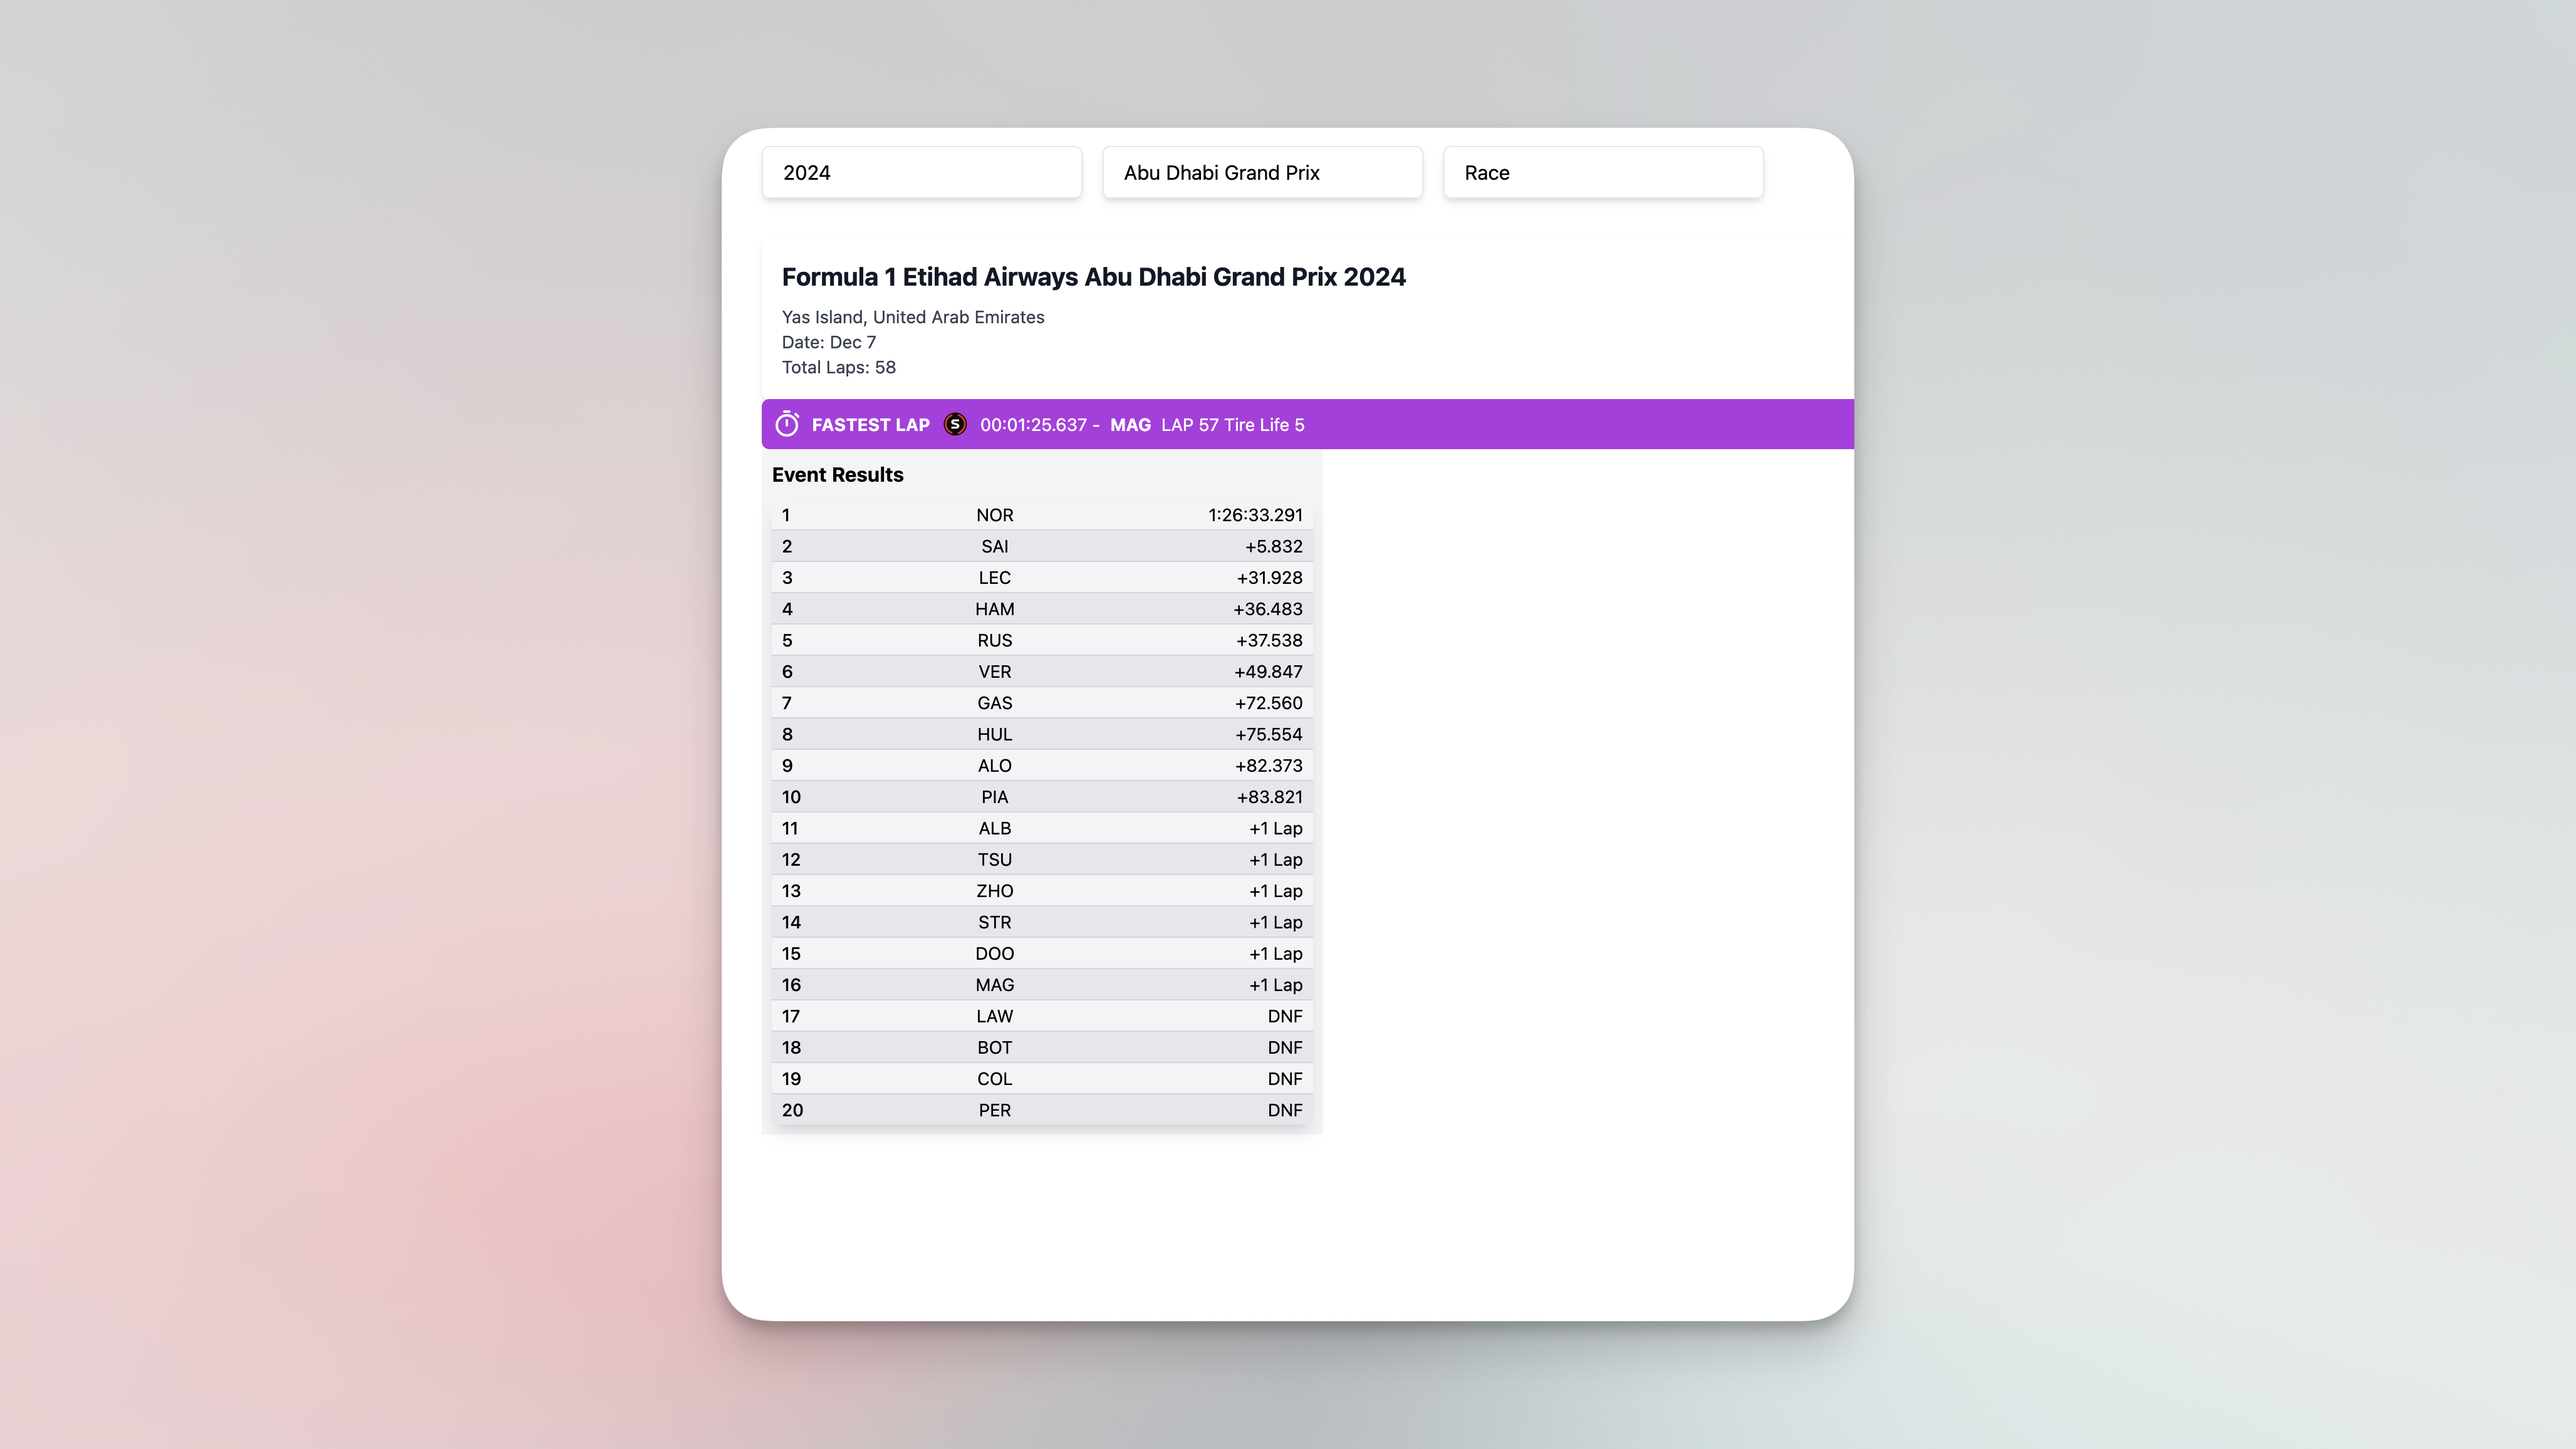
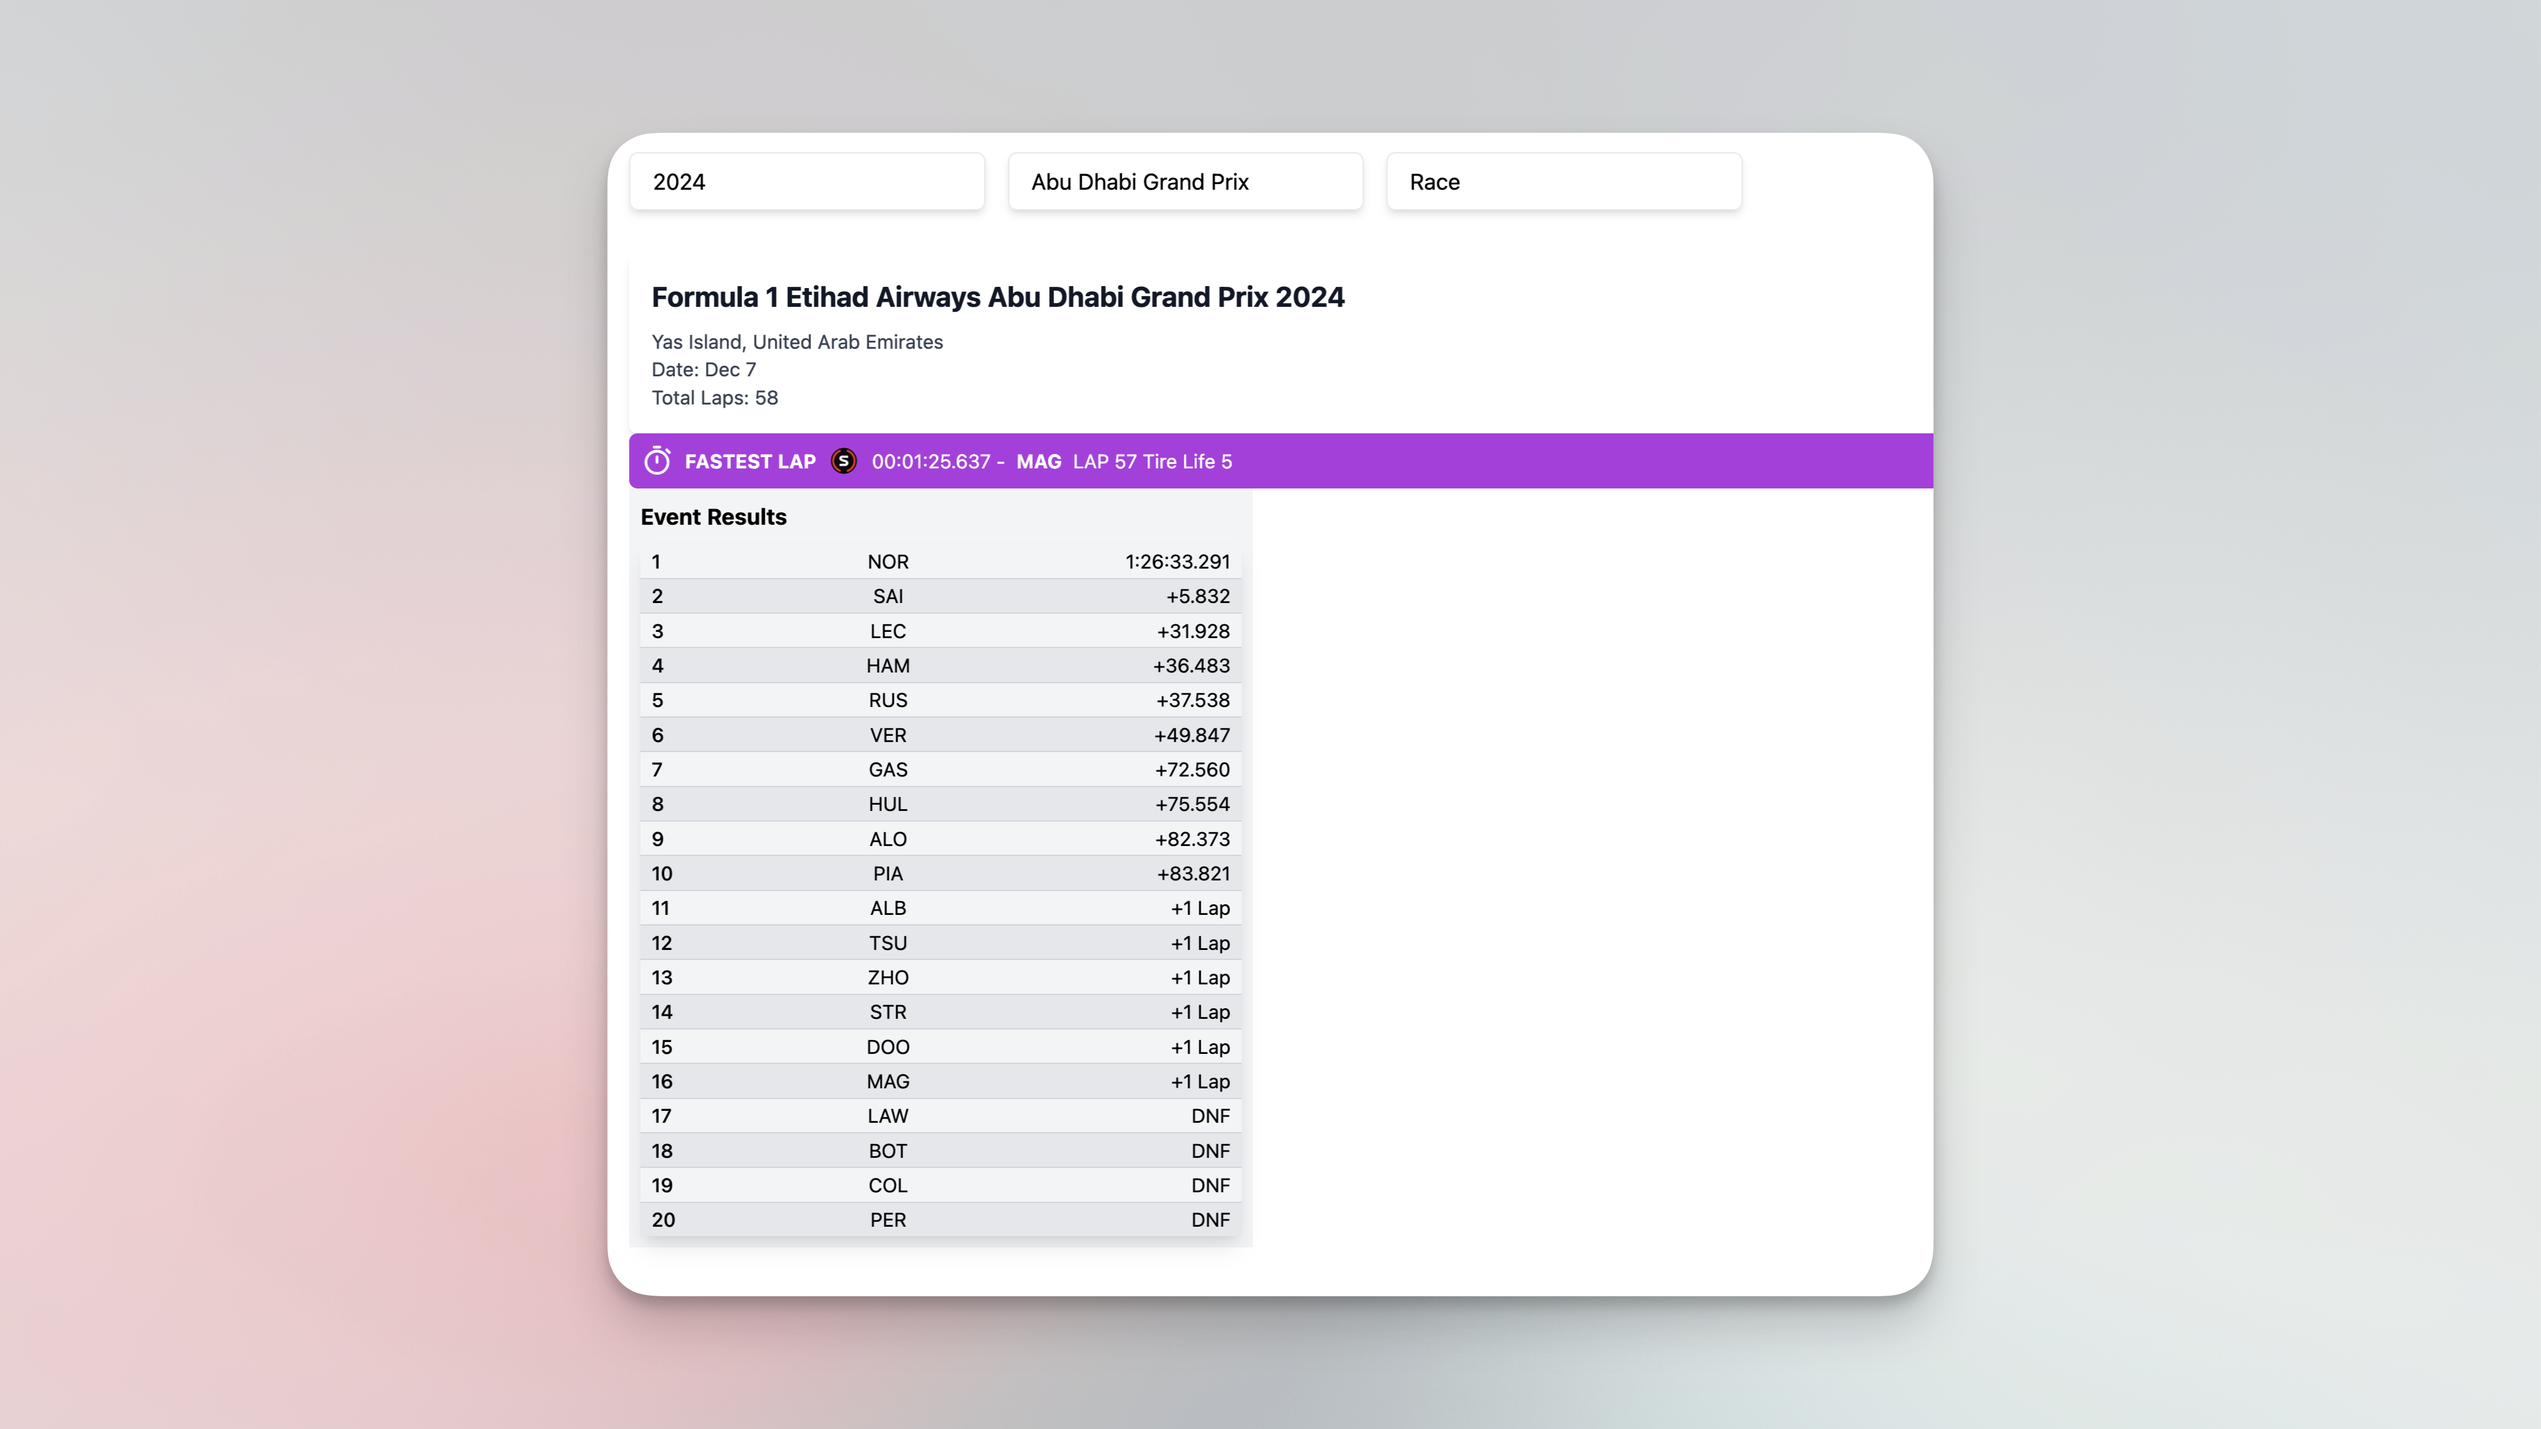
Update desc

Changed region(s): [[0.2174, 0.0622, 0.7764, 0.9334]]

diff --git a/src/App.jsx b/src/App.jsx
@@ -155,13 +155,13 @@ function Projects() {
     {
       image: '/predictifySC.png',
       title: 'Predictify',
-      description: 'An web application meant to help reduce carbon emissions.',
+      description: 'A full-stack web application with an aim to help reduce carbon emissions.',
       githubLink: 'https://github.com/jaykeburger/climate-predictive-modeling',
     },
     {
       image: '/wordleSC.png',
       title: 'Wordle',
-      description: 'A Wordle clone built with Python',
+      description: 'A wordle desktop application built with Python',
       githubLink: 'https://github.com/alehxs/wordle'
     }
   ];
